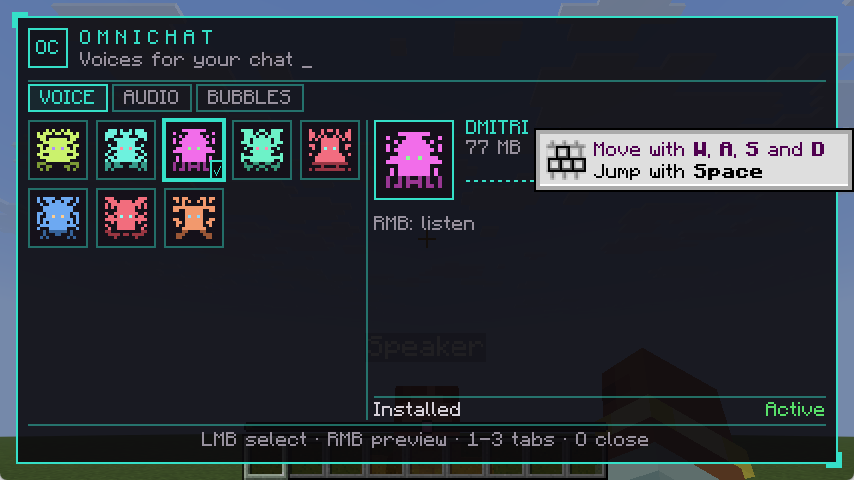
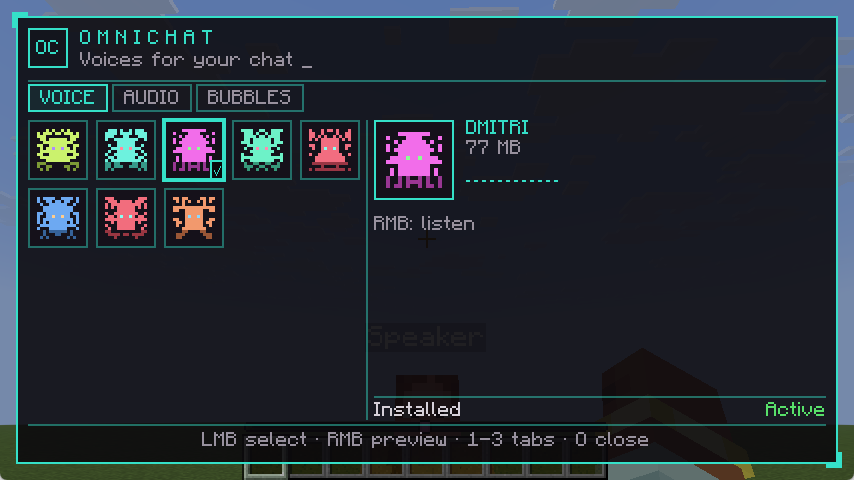
fix(ui): address final review findings for the pixel hud
- voice tab: progress is drawn live, rebuild only on structural catalog
  changes, never mid-drag; rebuild keeps keyboard focus
- scroll the grid only under the mouse and only when the row changes
- add "download all" button for remote and failed voices
- status line ellipsizes long left text
- folder size never throws on lazy walk failures
- warn when more voices exist than the catalog payload carries
- validate server portraits before decoding
- detect pre-versioning clients by their old model_list channel
- drop dead VoiceCache.isConnectedToOmnichatServer
- smoke: disable tutorial toast, report skipped ui step; refresh readme

diff --git a/src/client/java/org/mamoru/omnichat/client/ui/screen/VoiceTab.java b/src/client/java/org/mamoru/omnichat/client/ui/screen/VoiceTab.java
@@ -28,7 +28,11 @@ public class VoiceTab implements HudTab {
     private static int scrollRow;
 
     private OmnichatScreen screen;
+    // entries: what the widgets were built from; live: latest catalog, refreshed in tick() for progress
     private List<VoiceCatalog.Entry> entries = List.of();
+    private List<VoiceCatalog.Entry> live = List.of();
+    private HudLayout.Rect gridRect;
+    private int maxScrollRow;
     private int ticks;
 
     @Override
@@ -36,13 +40,22 @@ public class VoiceTab implements HudTab {
         this.screen = screen;
         OmnichatConfig config = OmnichatClient.getConfig();
         entries = VoiceCatalog.current();
+        live = entries;
         selected = VoiceCatalog.selectOrFallback(entries, selected, config.getModelPath());
+        gridRect = null;
         if (entries.isEmpty()) return;
 
         var g = l.grid();
-        int rowsVisible = Math.max(1, (g.h() + HudLayout.TILE_GAP) / (HudLayout.TILE + HudLayout.TILE_GAP));
+        gridRect = g;
+        List<String> pending = entries.stream()
+                .filter(e -> e.state() == VoiceCatalog.State.REMOTE || e.state() == VoiceCatalog.State.FAILED)
+                .map(e -> e.meta().model()).toList();
+        // "Download all" sits under the grid; tiles only use the rows above it
+        int gridH = pending.isEmpty() ? g.h() : g.h() - 18;
+        int rowsVisible = Math.max(1, (gridH + HudLayout.TILE_GAP) / (HudLayout.TILE + HudLayout.TILE_GAP));
         int totalRows = (entries.size() + l.columns() - 1) / l.columns();
-        scrollRow = Math.clamp(scrollRow, 0, Math.max(0, totalRows - rowsVisible));
+        maxScrollRow = Math.max(0, totalRows - rowsVisible);
+        scrollRow = Math.clamp(scrollRow, 0, maxScrollRow);
         for (int i = 0; i < entries.size(); i++) {
             int row = i / l.columns() - scrollRow, col = i % l.columns();
             if (row < 0 || row >= rowsVisible) continue;
@@ -50,7 +63,17 @@ public class VoiceTab implements HudTab {
             int x = g.x() + col * (HudLayout.TILE + HudLayout.TILE_GAP);
             int y = g.y() + row * (HudLayout.TILE + HudLayout.TILE_GAP);
             boolean active = e.meta().model().equals(config.getModelPath());
-            screen.add(new VoiceTile(x, y, e, e.meta().model().equals(selected), active, this::select, this::preview));
+            String model = e.meta().model();
+            screen.add(new VoiceTile(x, y, e, () -> liveEntry(model, e), model.equals(selected), active,
+                    this::select, this::preview));
+        }
+        if (!pending.isEmpty()) {
+            screen.add(new HudButton(g.x(), g.bottom() - 16, g.w(), 16,
+                    Text.translatable("omnichat.ui.voice.download_all", pending.size()), () -> {
+                        // The manager queues them and downloads one at a time
+                        for (String model : pending) ModelDownloadManager.getInstance().requestDownload(model);
+                        screen.rebuild();
+                    }));
         }
 
         VoiceCatalog.Entry sel = selectedEntry();
@@ -79,6 +102,13 @@ public class VoiceTab implements HudTab {
             default -> {
             }
         }
+    }
+
+    private VoiceCatalog.Entry liveEntry(String model, VoiceCatalog.Entry fallback) {
+        for (VoiceCatalog.Entry e : live) {
+            if (e.meta().model().equals(model)) return e;
+        }
+        return fallback;
     }
 
     private VoiceCatalog.Entry selectedEntry() {
@@ -123,17 +153,25 @@ public class VoiceTab implements HudTab {
 
     @Override
     public void tick() {
-        // Downloads progress, reloads and finished installs show up without reopening
+        // Progress is just redrawn from `live`; reloads, new states and finished installs rebuild the
+        // widgets, but never mid-drag (a rebuild would drop the slider being dragged)
         if (++ticks % 10 == 0) {
-            List<VoiceCatalog.Entry> now = VoiceCatalog.current();
-            if (!VoiceCatalog.signature(now).equals(VoiceCatalog.signature(entries))) screen.rebuild();
+            live = VoiceCatalog.current();
+            if (!screen.isDragging() && !VoiceCatalog.signature(live).equals(VoiceCatalog.signature(entries))) {
+                screen.rebuild();
+            }
         }
     }
 
     @Override
     public boolean mouseScrolled(double mouseX, double mouseY, double vertical) {
-        scrollRow = Math.max(0, scrollRow - (int) Math.signum(vertical));
-        screen.rebuild();
+        if (gridRect == null || mouseX < gridRect.x() || mouseX >= gridRect.right()
+                || mouseY < gridRect.y() || mouseY >= gridRect.bottom()) return false;
+        int row = Math.clamp(scrollRow - (int) Math.signum(vertical), 0, maxScrollRow);
+        if (row != scrollRow) {
+            scrollRow = row;
+            screen.rebuild();
+        }
         return true;
     }
 
@@ -150,8 +188,9 @@ public class VoiceTab implements HudTab {
             }
             return;
         }
-        VoiceCatalog.Entry e = selectedEntry();
-        if (e == null) return;
+        VoiceCatalog.Entry sel = selectedEntry();
+        if (sel == null) return;
+        VoiceCatalog.Entry e = liveEntry(sel.meta().model(), sel);
 
         int big = 40;
         Identifier portrait = PortraitTextures.get(e.meta());

diff --git a/src/client/java/org/mamoru/omnichat/client/ui/screen/OmnichatScreen.java b/src/client/java/org/mamoru/omnichat/client/ui/screen/OmnichatScreen.java
@@ -1,5 +1,6 @@
 package org.mamoru.omnichat.client.ui.screen;
 
+import net.minecraft.client.gui.Click;
 import net.minecraft.client.gui.Drawable;
 import net.minecraft.client.gui.DrawContext;
 import net.minecraft.client.gui.Element;
@@ -13,6 +14,7 @@ import org.mamoru.omnichat.client.tts.VoicePreview;
 import org.mamoru.omnichat.client.ui.HudLayout;
 import org.mamoru.omnichat.client.ui.HudTheme;
 import org.mamoru.omnichat.client.ui.widget.TabBar;
+import org.mamoru.omnichat.client.ui.widget.VoiceTile;
 
 import java.util.List;
 
@@ -46,8 +48,25 @@ public class OmnichatScreen extends Screen {
         return addDrawableChild(widget);
     }
 
+    /** Re-creates all widgets, keeping keyboard focus on the same voice tile (or the same slot). */
     public void rebuild() {
+        Element focused = getFocused();
+        int focusedIndex = focused == null ? -1 : children().indexOf(focused);
         clearAndInit();
+        refocus(focused, focusedIndex);
+    }
+
+    private void refocus(Element focused, int focusedIndex) {
+        if (focused == null) return;
+        String focusedModel = focused instanceof VoiceTile t ? t.model() : null;
+        Element target = null;
+        for (Element e : children()) {
+            if (focusedModel != null && e instanceof VoiceTile t && t.model().equals(focusedModel)) target = e;
+        }
+        if (target == null && focusedModel == null && focusedIndex >= 0 && focusedIndex < children().size()) {
+            target = children().get(focusedIndex);
+        }
+        if (target != null) setFocused(target);
     }
 
     private void selectTab(int tab) {
@@ -89,6 +108,20 @@ public class OmnichatScreen extends Screen {
     @Override
     public void tick() {
         tabs[lastTab].tick();
+    }
+
+    @Override
+    public boolean mouseClicked(Click click, boolean doubled) {
+        Element before = getFocused();
+        int beforeIndex = before == null ? -1 : children().indexOf(before);
+        boolean handled = super.mouseClicked(click, doubled);
+        // A click handler that rebuilt the screen gets its old, removed widget focused afterwards
+        Element after = getFocused();
+        if (after != null && !children().contains(after)) {
+            setFocused(null);
+            refocus(after, after == before ? beforeIndex : -1);
+        }
+        return handled;
     }
 
     @Override

diff --git a/src/client/java/org/mamoru/omnichat/client/ui/widget/VoiceTile.java b/src/client/java/org/mamoru/omnichat/client/ui/widget/VoiceTile.java
@@ -16,17 +16,21 @@ import org.mamoru.omnichat.client.ui.PortraitTextures;
 import org.mamoru.omnichat.client.ui.VoiceCatalog;
 
 import java.util.function.Consumer;
+import java.util.function.Supplier;
 
 /** Portrait tile. LMB/Enter selects, RMB previews. Badge: ✓ active, ↓ remote, % downloading, ! failed. */
 public class VoiceTile extends ClickableWidget {
     private final VoiceCatalog.Entry entry;
+    // Latest catalog entry for this model: download progress changes without a rebuild
+    private final Supplier<VoiceCatalog.Entry> live;
     private final boolean selected, activeVoice;
     private final Consumer<String> onSelect, onPreview;
 
-    public VoiceTile(int x, int y, VoiceCatalog.Entry entry, boolean selected, boolean activeVoice,
-                     Consumer<String> onSelect, Consumer<String> onPreview) {
+    public VoiceTile(int x, int y, VoiceCatalog.Entry entry, Supplier<VoiceCatalog.Entry> live, boolean selected,
+                     boolean activeVoice, Consumer<String> onSelect, Consumer<String> onPreview) {
         super(x, y, HudLayout.TILE, HudLayout.TILE, Text.literal(entry.meta().name()));
         this.entry = entry;
+        this.live = live;
         this.selected = selected;
         this.activeVoice = activeVoice;
         this.onSelect = onSelect;
@@ -50,12 +54,17 @@ public class VoiceTile extends ClickableWidget {
         drawBadge(ctx, x + s, y + s);
     }
 
+    public String model() {
+        return entry.meta().model();
+    }
+
     private void drawBadge(DrawContext ctx, int right, int bottom) {
+        VoiceCatalog.Entry now = live.get();
         String text;
         int color;
-        switch (entry.state()) {
+        switch (now.state()) {
             case DOWNLOADING -> {
-                text = entry.progress() < 0 ? "…" : Math.round(entry.progress() * 100) + "%";
+                text = now.progress() < 0 ? "…" : Math.round(now.progress() * 100) + "%";
                 color = HudTheme.WARN;
             }
             case REMOTE -> { text = "↓"; color = HudTheme.WARN; }

diff --git a/src/main/java/org/mamoru/omnichat/server/ServerNetworkHandler.java b/src/main/java/org/mamoru/omnichat/server/ServerNetworkHandler.java
@@ -7,6 +7,7 @@ import net.minecraft.server.MinecraftServer;
 import net.minecraft.server.network.ServerPlayerEntity;
 import net.minecraft.text.Text;
 import net.minecraft.util.Formatting;
+import net.minecraft.util.Identifier;
 import org.mamoru.omnichat.network.*;
 import org.slf4j.Logger;
 import org.slf4j.LoggerFactory;
@@ -16,6 +17,8 @@ import java.util.function.Supplier;
 
 public class ServerNetworkHandler {
     private static final Logger LOGGER = LoggerFactory.getLogger("OmniChat");
+    // Channel registered by pre-versioning clients (they never know the new catalog channel)
+    private static final Identifier LEGACY_MODEL_LIST = Identifier.of("omnichat", "model_list");
 
     private final VoiceRegistry registry;
     private final ModelFileServer fileServer;
@@ -212,7 +215,7 @@ public class ServerNetworkHandler {
         // Model list and voice map wait for the client's handshake (onProtocolVersion).
         // A client with OmniChat channels but no handshake channel runs a pre-versioning build.
         if (!ServerPlayNetworking.canSend(player, ProtocolVersionPayload.ID)
-                && ServerPlayNetworking.canSend(player, VoiceCatalogS2CPayload.ID)) {
+                && ServerPlayNetworking.canSend(player, LEGACY_MODEL_LIST)) {
             LOGGER.warn("Player {} uses an outdated OmniChat version: OmniChat features disabled for them",
                     player.getName().getString());
             player.sendMessage(Text.literal("[OmniChat] Your OmniChat version doesn't match the server's; "

diff --git a/src/main/java/org/mamoru/omnichat/server/VoiceRegistry.java b/src/main/java/org/mamoru/omnichat/server/VoiceRegistry.java
@@ -1,9 +1,12 @@
 package org.mamoru.omnichat.server;
 
+import org.mamoru.omnichat.network.VoiceCatalogS2CPayload;
 import org.mamoru.omnichat.network.VoiceChoice;
 import org.mamoru.omnichat.util.ModelScanner;
 import org.mamoru.omnichat.voice.VoiceMeta;
 import org.mamoru.omnichat.voice.VoiceMetaReader;
+import org.slf4j.Logger;
+import org.slf4j.LoggerFactory;
 
 import java.nio.file.Path;
 import java.util.ArrayList;
@@ -12,6 +15,7 @@ import java.util.Map;
 import java.util.UUID;
 
 public class VoiceRegistry {
+    private static final Logger LOGGER = LoggerFactory.getLogger("OmniChat");
     private final Path modelsDir;
     private final VoiceStorage storage;
     // Immutable snapshot, swapped whole by refreshModels() (e.g. from /omnichat reload)
@@ -28,6 +32,10 @@ public class VoiceRegistry {
 
     public void refreshModels() {
         List<String> models = List.copyOf(ModelScanner.scanModels(modelsDir));
+        if (models.size() > VoiceCatalogS2CPayload.MAX_ENTRIES) {
+            LOGGER.warn("{} voice models installed, only the first {} are offered to clients",
+                    models.size(), VoiceCatalogS2CPayload.MAX_ENTRIES);
+        }
         List<VoiceMeta> metas = new ArrayList<>(models.size());
         for (String model : models) {
             metas.add(VoiceMetaReader.read(modelsDir.resolve(model), model));

diff --git a/src/client/java/org/mamoru/omnichat/client/ui/widget/StatusLine.java b/src/client/java/org/mamoru/omnichat/client/ui/widget/StatusLine.java
@@ -3,6 +3,7 @@ package org.mamoru.omnichat.client.ui.widget;
 import net.minecraft.client.font.TextRenderer;
 import net.minecraft.client.gui.DrawContext;
 import net.minecraft.text.Text;
+import org.mamoru.omnichat.client.ui.HudText;
 import org.mamoru.omnichat.client.ui.HudTheme;
 
 /** Divider + "left ........ right" status row. Not focusable, just drawn. */
@@ -14,7 +15,9 @@ public final class StatusLine {
 
     public static void draw(DrawContext ctx, TextRenderer tr, int x, int y, int w, Text left, Text right, int rightColor) {
         HudTheme.divider(ctx, x, y, w);
-        ctx.drawText(tr, left, x, y + 3, HudTheme.TEXT, false);
+        // Long failure reasons would run under the right text and out of the panel
+        String fitted = HudText.ellipsize(left.getString(), w - tr.getWidth(right) - 4, tr::getWidth);
+        ctx.drawText(tr, fitted, x, y + 3, HudTheme.TEXT, false);
         ctx.drawText(tr, right, x + w - tr.getWidth(right), y + 3, rightColor, false);
     }
 }

diff --git a/src/client/java/org/mamoru/omnichat/client/ui/VoiceCatalog.java b/src/client/java/org/mamoru/omnichat/client/ui/VoiceCatalog.java
@@ -88,14 +88,15 @@ public final class VoiceCatalog {
     }
 
     /**
-     * What the Voice tab shows, without array identity: used to decide whether to rebuild.
-     * (VoiceMeta holds a byte[], so record equality would never match.)
+     * What the Voice tab's widgets depend on, without array identity: used to decide whether to rebuild.
+     * (VoiceMeta holds a byte[], so record equality would never match.) Download progress is left out:
+     * it is drawn live, and rebuilding on every percent would drop focus and slider drags.
      */
     public static List<String> signature(List<Entry> entries) {
         List<String> out = new ArrayList<>(entries.size());
         for (Entry e : entries) {
             out.add(e.meta().model() + "|" + e.meta().name() + "|" + e.state() + "|"
-                    + Math.round(e.progress() * 100) + "|" + e.failure() + "|" + e.onServer());
+                    + e.failure() + "|" + e.onServer());
         }
         return out;
     }

diff --git a/src/client/java/org/mamoru/omnichat/client/ui/PortraitTextures.java b/src/client/java/org/mamoru/omnichat/client/ui/PortraitTextures.java
@@ -5,6 +5,7 @@ import net.minecraft.client.texture.NativeImage;
 import net.minecraft.client.texture.NativeImageBackedTexture;
 import net.minecraft.util.Identifier;
 import org.mamoru.omnichat.voice.VoiceMeta;
+import org.mamoru.omnichat.voice.VoiceMetaReader;
 import org.slf4j.Logger;
 import org.slf4j.LoggerFactory;
 
@@ -49,7 +50,9 @@ public final class PortraitTextures {
     }
 
     private static NativeImage decode(VoiceMeta meta) {
-        if (meta.portrait().length > 0) {
+        if (meta.portrait().length > 0 && !VoiceMetaReader.isValidPortrait(meta.portrait())) {
+            LOGGER.warn("Bad portrait for voice '{}', using a generated one: not a 16x16/32x32 PNG", meta.model());
+        } else if (meta.portrait().length > 0) {
             try {
                 return NativeImage.read(meta.portrait());
             } catch (IOException | RuntimeException e) {

diff --git a/src/test/java/org/mamoru/omnichat/client/ui/VoiceCatalogTest.java b/src/test/java/org/mamoru/omnichat/client/ui/VoiceCatalogTest.java
@@ -67,6 +67,15 @@ class VoiceCatalogTest {
     }
 
     @Test
+    void signatureIgnoresDownloadProgress() {
+        // Progress is drawn live; a rebuild per percent would drop focus and slider drags
+        VoiceMeta a = new VoiceMeta("denis", "D", "", "", "", "", 1, new byte[0]);
+        var x = VoiceCatalog.build(List.of(a), List.of(), Map.of("denis", 0.1f), Map.of());
+        var y = VoiceCatalog.build(List.of(a), List.of(), Map.of("denis", 0.9f), Map.of());
+        assertEquals(VoiceCatalog.signature(x), VoiceCatalog.signature(y));
+    }
+
+    @Test
     void selectionFallsBackWhenVoiceRemoved() {
         var e = VoiceCatalog.build(List.of(m("denis"), m("irina")), List.of(), Map.of(), Map.of());
         assertEquals("irina", VoiceCatalog.selectOrFallback(e, "irina", "denis"));

diff --git a/src/main/java/org/mamoru/omnichat/voice/VoiceMetaReader.java b/src/main/java/org/mamoru/omnichat/voice/VoiceMetaReader.java
@@ -7,6 +7,7 @@ import org.slf4j.Logger;
 import org.slf4j.LoggerFactory;
 
 import java.io.IOException;
+import java.io.UncheckedIOException;
 import java.nio.charset.StandardCharsets;
 import java.nio.file.Files;
 import java.nio.file.Path;
@@ -94,7 +95,8 @@ public final class VoiceMetaReader {
                     return 0;
                 }
             }).sum();
-        } catch (IOException e) {
+        } catch (IOException | UncheckedIOException | SecurityException e) {
+            // Files.walk fails lazily (unreadable subfolder, folder removed mid-walk)
             return 0;
         }
     }

diff --git a/src/test/java/org/mamoru/omnichat/voice/VoiceMetaReaderTest.java b/src/test/java/org/mamoru/omnichat/voice/VoiceMetaReaderTest.java
@@ -33,6 +33,14 @@ class VoiceMetaReaderTest {
     }
 
     @Test
+    void missingFolderGivesBareMetaWithZeroSize() {
+        VoiceMeta m = VoiceMetaReader.read(dir.resolve("gone"), "ghost");
+        assertEquals("ghost", m.name());
+        assertEquals(0, m.sizeBytes());
+        assertEquals(0, m.portrait().length);
+    }
+
+    @Test
     void readsAndTruncatesFields() throws IOException {
         String longName = "N".repeat(50);
         Files.writeString(dir.resolve("voice.json"),

diff --git a/src/client/java/org/mamoru/omnichat/client/network/VoiceCache.java b/src/client/java/org/mamoru/omnichat/client/network/VoiceCache.java
@@ -46,10 +46,6 @@ public class VoiceCache {
         return voiceMap.get(playerUuid);
     }
 
-    public boolean isConnectedToOmnichatServer() {
-        return !catalog.isEmpty();
-    }
-
     public void clear() {
         catalog = List.of();
         voiceMap.clear();
